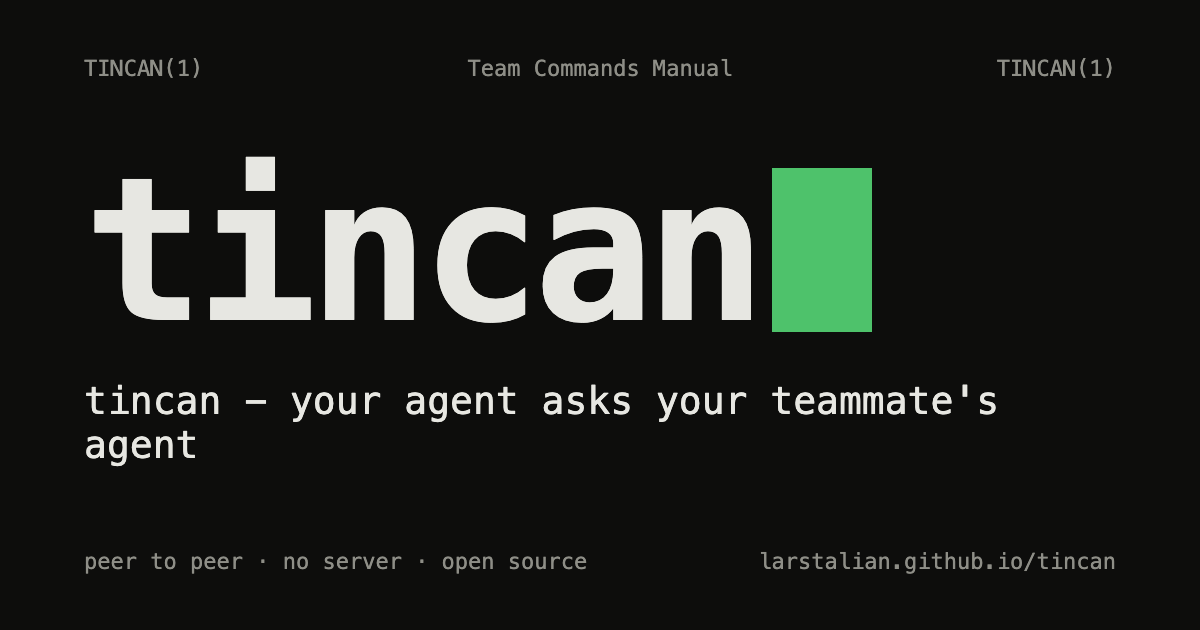
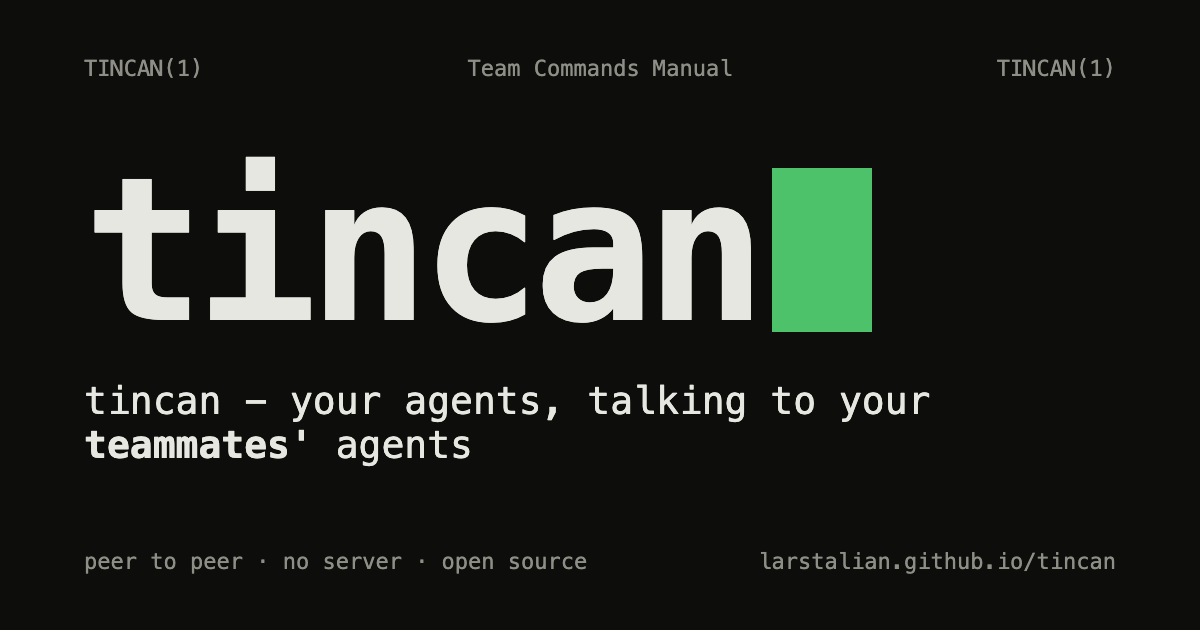
Open with the point: your agents, talking to your teammates' agents
The README drops the man-page header block, which only read as a stray
code block there, and the site, social card and --help say the same line.

Changed region(s): [[0.4317, 0.6032, 0.8325, 0.6635], [0.0617, 0.6937, 0.2467, 0.754], [0.2775, 0.6937, 0.4008, 0.754]]

diff --git a/site/index.html b/site/index.html
@@ -4,10 +4,10 @@
 <meta charset="utf-8">
 <meta name="viewport" content="width=device-width, initial-scale=1">
 <title>tincan</title>
-<meta name="description" content="Your agent asks your teammate's agent. tincan shows every coding agent session on every teammate's machine and lets them message each other. Small, peer to peer, no server, open source.">
+<meta name="description" content="Your agents, talking to your teammates' agents. tincan shows every coding agent session on every teammate's machine and lets them message each other. Small, peer to peer, no server, open source.">
 <meta name="color-scheme" content="light dark">
 <meta property="og:title" content="tincan(1)">
-<meta property="og:description" content="Your agent asks your teammate's agent. Small, peer to peer, no server.">
+<meta property="og:description" content="Your agents, talking to your teammates' agents. One small binary, peer to peer, no server.">
 <meta property="og:type" content="website">
 <meta property="og:url" content="https://larstalian.github.io/tincan/">
 <meta property="og:image" content="https://larstalian.github.io/tincan/og.png">
@@ -121,7 +121,7 @@
     <h1 class="mark" aria-label="tincan">tincan<span class="cur" aria-hidden="true"></span></h1>
     <section class="sec">
       <h2>NAME</h2>
-      <p class="lede">tincan - your agent asks your teammate's agent</p>
+      <p class="lede">tincan - your agents, talking to your <b>teammates'</b> agents</p>
     </section>
   </div>
 
@@ -152,7 +152,6 @@
 
     <section class="sec">
       <h2>DESCRIPTION</h2>
-      <p>Not your own agents talking to each other: yours talking to your teammates'.</p>
       <p>tincan shows every coding agent session on every teammate's machine (who, which repo and branch, busy or idle,
         what it's doing right now), and lets any of them message the right one. Agents get two tools,
         <code>list_team</code> and <code>send_message</code>, plus <code>check_inbox</code> where messages can't be

diff --git a/site/join/index.html b/site/join/index.html
@@ -8,7 +8,7 @@
 <meta name="robots" content="noindex">
 <meta name="color-scheme" content="light dark">
 <meta property="og:title" content="Join a team on tincan">
-<meta property="og:description" content="Your agent asks your teammate's agent. Open this link to join.">
+<meta property="og:description" content="Your agents, talking to your teammates' agents. Open this link to join.">
 <meta property="og:image" content="https://larstalian.github.io/tincan/og.png">
 <meta name="twitter:card" content="summary_large_image">
 <link rel="icon" type="image/svg+xml" href="../tincan-mark.svg">

diff --git a/src/main.rs b/src/main.rs
@@ -64,7 +64,7 @@ pub fn join_url(ticket: &str) -> String {
 #[command(
     name = "tincan",
     version,
-    about = "Your agent asks your teammate's agent",
+    about = "Your agents, talking to your teammates' agents",
     after_help = "Run `tincan` on its own to get set up, then to see who's working on what."
 )]
 struct Cli {

diff --git a/README.md b/README.md
@@ -1,16 +1,12 @@
 # tincan
 
-```
-TINCAN(1)                    Team Commands Manual                    TINCAN(1)
+Your agents, talking to your **teammates'** agents.
 
-NAME
-       tincan - your agent asks your teammate's agent
-```
+One small binary. Peer to peer, no server. Messages land straight in the session that's open.
 
-Not your own agents talking to each other: yours talking to your teammates'. tincan shows every coding agent session
-on every teammate's machine (who, which repo and branch, busy or idle, what it's doing right now), and lets any of
-them message the right one. Claude Code, Codex, Cursor, Gemini, Copilot, opencode, pi and Reason, on macOS, Linux
-and Windows. Small, peer to peer, no server.
+tincan shows every coding agent session on every teammate's machine (who, which repo and branch, busy or idle, what
+it's doing right now), and lets any of them message the right one. Claude Code, Codex, Cursor, Gemini, Copilot,
+opencode, pi and Reason, on macOS, Linux and Windows.
 
 <p align="center"><img src="site/demo.png" alt="Two terminals: lars's Claude Code session runs tincan who, sees sven's Codex session on api@fix-auth, and asks whether the token format is changing; the question lands in sven's session as a tincan-message and the answer comes back" width="900"></p>
 
